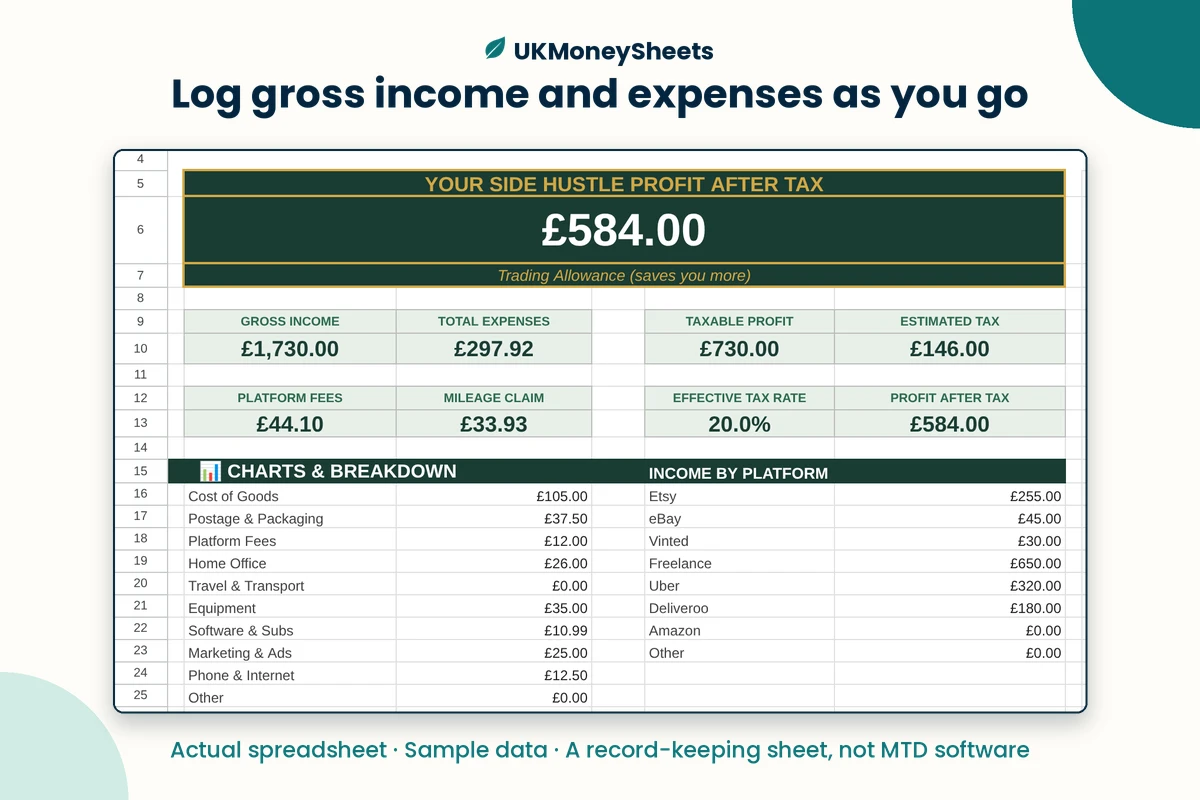
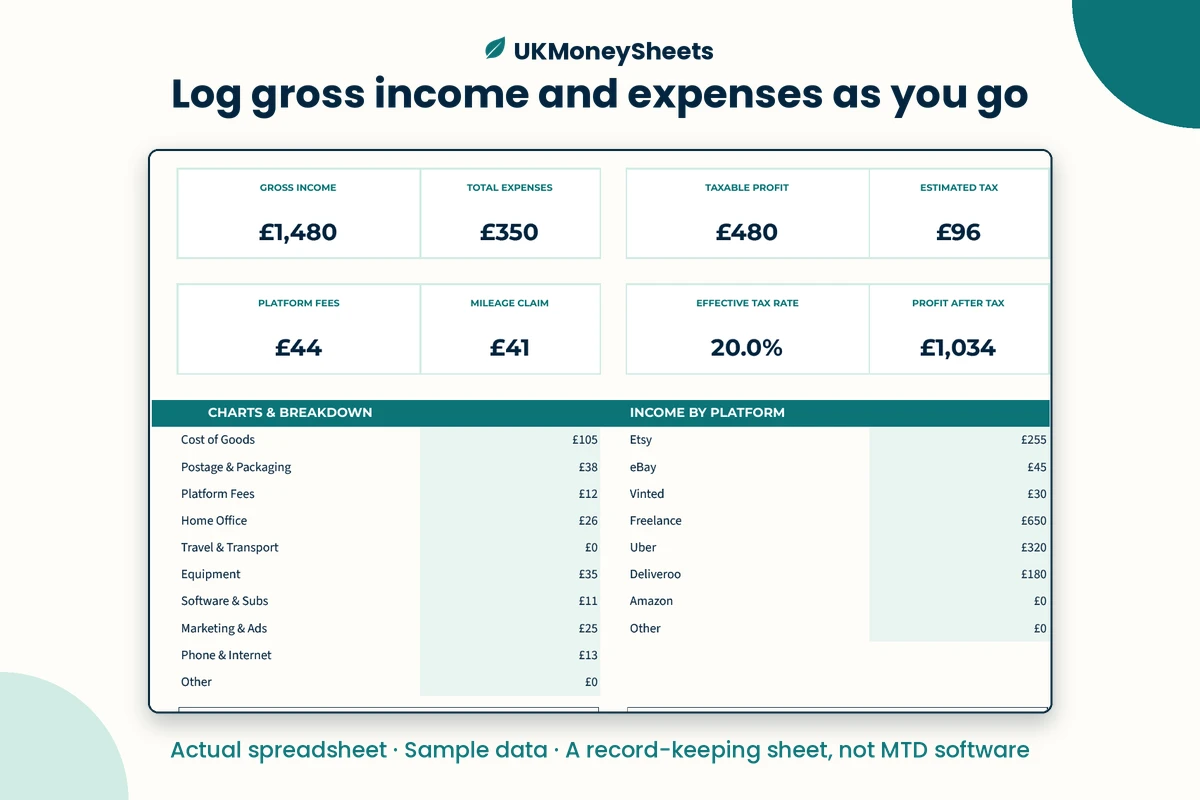
Fix 3: recaptured in-guide images for 6 guides from live sheets, ?v=3 cache-bust

Changed region(s): [[0.0925, 0.1875, 0.925, 0.9062]]

diff --git a/src/lib/guides.ts b/src/lib/guides.ts
@@ -131,7 +131,7 @@ export const guides: GuideMeta[] = [
     showHeaderImage: false,
     inGuideImages: {
       afterIntro: {
-        src: "/guides/inguide/cash-isa-12k-under-65-planner/1.webp",
+        src: "/guides/inguide/cash-isa-12k-under-65-planner/1.webp?v=3",
         alt: "Real Google Sheets screenshot: plan regular saving in Google Sheets, sample data",
       },
       nearChecklist: {
@@ -203,7 +203,7 @@ export const guides: GuideMeta[] = [
     showHeaderImage: false,
     inGuideImages: {
       afterIntro: {
-        src: "/guides/inguide/register-self-assessment-5-october/1.webp",
+        src: "/guides/inguide/register-self-assessment-5-october/1.webp?v=3",
         alt: "Real Google Sheets screenshot: records ready for your 2025/26 return, sample data",
       },
       nearChecklist: {
@@ -275,7 +275,7 @@ export const guides: GuideMeta[] = [
     showHeaderImage: false,
     inGuideImages: {
       afterIntro: {
-        src: "/guides/inguide/house-deposit-lisa-planner/1.webp",
+        src: "/guides/inguide/house-deposit-lisa-planner/1.webp?v=3",
         alt: "Real Google Sheets screenshot: inside a first-time buyer planner, sample data",
       },
       nearChecklist: {
@@ -466,7 +466,7 @@ export const guides: GuideMeta[] = [
     showHeaderImage: false,
     inGuideImages: {
       afterIntro: {
-        src: "/guides/inguide/uk-landlord-section-24/1.webp",
+        src: "/guides/inguide/uk-landlord-section-24/1.webp?v=3",
         alt: "Real Google Sheets screenshot: a 2025/26 rental income tracker, sample data",
       },
       nearChecklist: {
@@ -501,7 +501,7 @@ export const guides: GuideMeta[] = [
     showHeaderImage: false,
     inGuideImages: {
       afterIntro: {
-        src: "/guides/inguide/uk-self-assessment-side-hustle-sa103/1.webp",
+        src: "/guides/inguide/uk-self-assessment-side-hustle-sa103/1.webp?v=3",
         alt: "Real Google Sheets screenshot: a 2026/27 side hustle tracker, sample data",
       },
       nearChecklist: {
@@ -536,7 +536,7 @@ export const guides: GuideMeta[] = [
     showHeaderImage: false,
     inGuideImages: {
       afterIntro: {
-        src: "/guides/inguide/making-tax-digital-30k-april-2027/1.webp",
+        src: "/guides/inguide/making-tax-digital-30k-april-2027/1.webp?v=3",
         alt: "Real Google Sheets screenshot: log gross income and expenses as you go, sample data (a record-keeping sheet, not MTD software)",
       },
       nearChecklist: {
